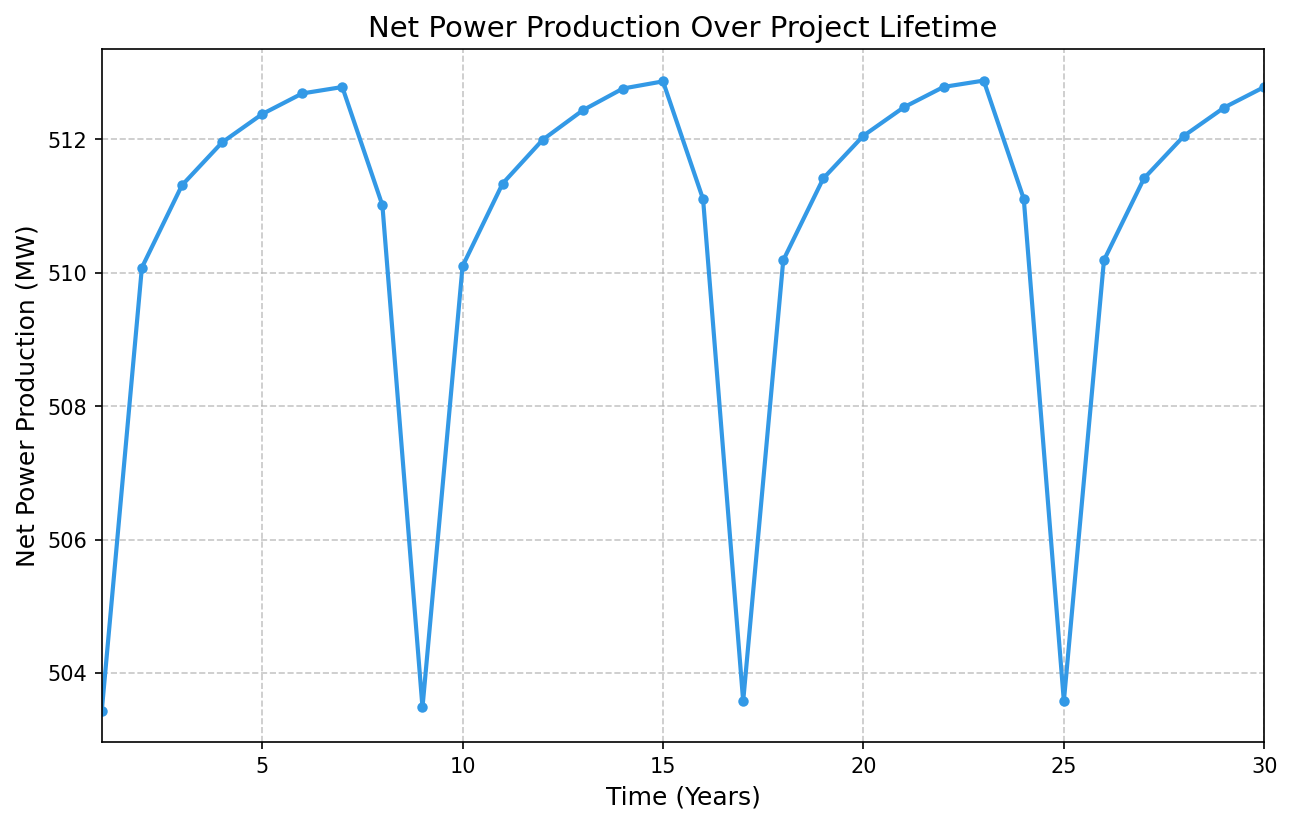
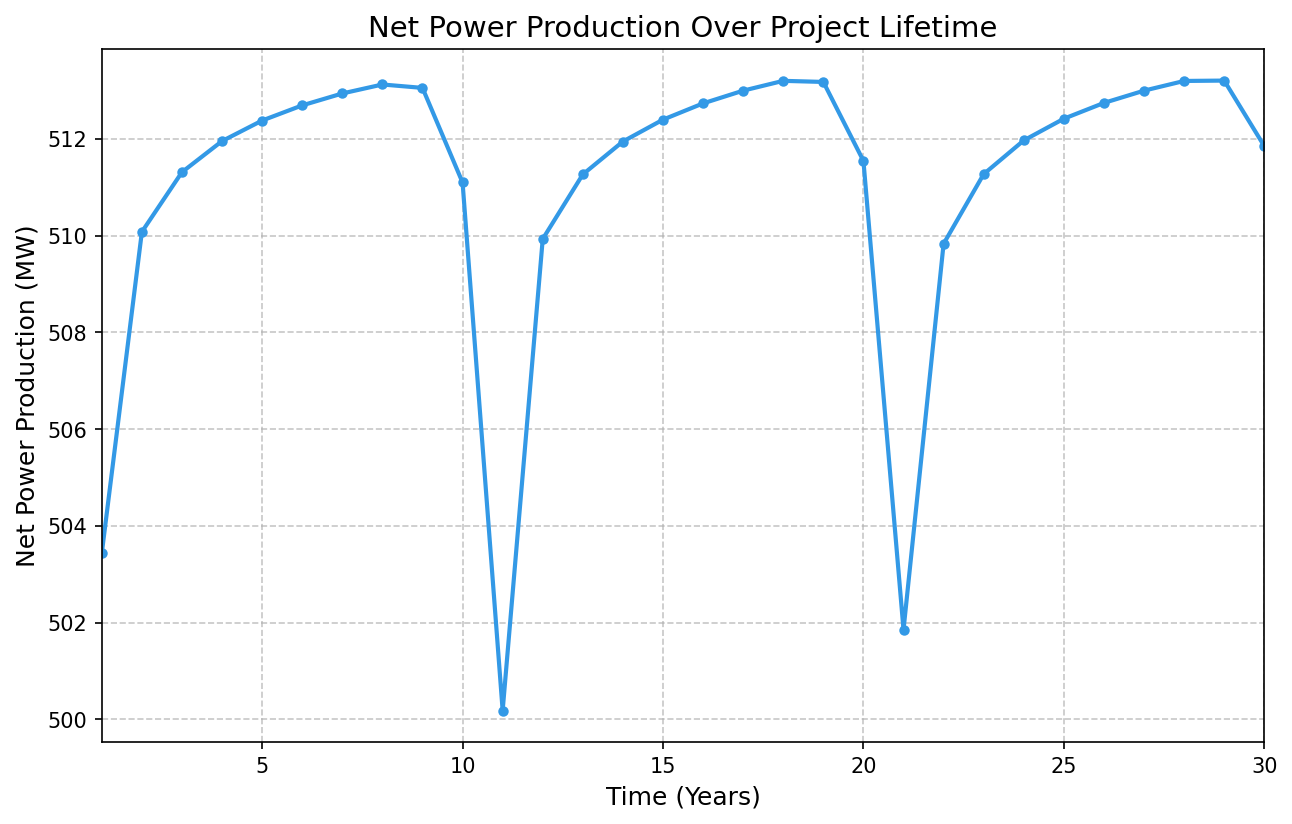
calibrate fracture height (WIP)

diff --git a/docs/generate_fervo_project_cape_4_graphs.py b/docs/generate_fervo_project_cape_4_graphs.py
@@ -5,10 +5,15 @@ from pathlib import Path
 import numpy as np
 from matplotlib import pyplot as plt
 
+from geophires_x_client import GeophiresInputParameters
+from geophires_x_client import GeophiresXClient
 from geophires_x_client import GeophiresXResult
+from geophires_x_client import ImmutableGeophiresInputParameters
 
 
-def generate_net_power_graph(result: GeophiresXResult, output_dir: Path) -> str:
+def generate_net_power_graph(
+    result: GeophiresXResult, output_dir: Path, filename='fervo_project_cape-4-net-power-production.png'
+) -> str:
     """
     Generate a graph of time vs net power production and save it to the output directory.
 
@@ -55,7 +60,6 @@ def generate_net_power_graph(result: GeophiresXResult, output_dir: Path) -> str:
     output_dir.mkdir(parents=True, exist_ok=True)
 
     # Save the figure
-    filename = 'fervo_project_cape-4-net-power-production.png'
     save_path = output_dir / filename
     plt.savefig(save_path, dpi=150, bbox_inches='tight')
     plt.close(fig)
@@ -64,7 +68,9 @@ def generate_net_power_graph(result: GeophiresXResult, output_dir: Path) -> str:
     return filename
 
 
-def generate_production_temperature_graph(result: GeophiresXResult, output_dir: Path) -> str:
+def generate_production_temperature_graph(
+    result: GeophiresXResult, output_dir: Path, filename='fervo_project_cape-4-production-temperature.png'
+) -> str:
     """
     Generate a graph of time vs production temperature and save it to the output directory.
 
@@ -113,7 +119,6 @@ def generate_production_temperature_graph(result: GeophiresXResult, output_dir: 
     output_dir.mkdir(parents=True, exist_ok=True)
 
     # Save the figure
-    filename = 'fervo_project_cape-4-production-temperature.png'
     save_path = output_dir / filename
     plt.savefig(save_path, dpi=150, bbox_inches='tight')
     plt.close(fig)
@@ -122,9 +127,28 @@ def generate_production_temperature_graph(result: GeophiresXResult, output_dir: 
     return filename
 
 
-def generate_fervo_project_cape_4_graphs(result: GeophiresXResult, output_dir: Path) -> None:
+def generate_fervo_project_cape_4_graphs(
+    input_params: GeophiresInputParameters, result: GeophiresXResult, output_dir: Path
+) -> None:
     generate_net_power_graph(result, output_dir)
     generate_production_temperature_graph(result, output_dir)
+
+    singh_et_al_base_simulation_input_params = ImmutableGeophiresInputParameters(
+        from_file_path=input_params.as_file_path(),
+        params={'Number of Production Wells': 4, 'Maximum Drawdown': 1, 'Plant Lifetime': 15},
+    )
+
+    singh_et_al_base_simulation_result = GeophiresXClient().get_geophires_result(
+        singh_et_al_base_simulation_input_params
+    )
+    generate_net_power_graph(
+        singh_et_al_base_simulation_result, output_dir, filename='singh_et_al_base_simulation-net-power-production.png'
+    )
+    generate_production_temperature_graph(
+        singh_et_al_base_simulation_result,
+        output_dir,
+        filename='singh_et_al_base_simulation-production-temperature.png',
+    )
 
 
 if __name__ == '__main__':
@@ -132,6 +156,10 @@ if __name__ == '__main__':
     docs_dir = project_root / 'docs'
     images_dir = docs_dir / '_images'
 
-    result = GeophiresXResult(project_root / 'tests/examples/Fervo_Project_Cape-4.out')
+    input_params_: GeophiresInputParameters = ImmutableGeophiresInputParameters(
+        from_file_path=project_root / 'tests/examples/Fervo_Project_Cape-4.txt'
+    )
 
-    generate_fervo_project_cape_4_graphs(result, images_dir)
+    result_ = GeophiresXResult(project_root / 'tests/examples/Fervo_Project_Cape-4.out')
+
+    generate_fervo_project_cape_4_graphs(input_params_, result_, images_dir)

diff --git a/docs/generate_fervo_project_cape_4_md.py b/docs/generate_fervo_project_cape_4_md.py
@@ -382,7 +382,7 @@ def main():
     # Generate the net power production graph
     docs_dir = _PROJECT_ROOT / 'docs'
     images_dir = docs_dir / '_images'
-    generate_fervo_project_cape_4_graphs(result, images_dir)
+    generate_fervo_project_cape_4_graphs(input_params, result, images_dir)
 
     # Set up Jinja environment
     env = Environment(loader=FileSystemLoader(docs_dir), autoescape=True)
